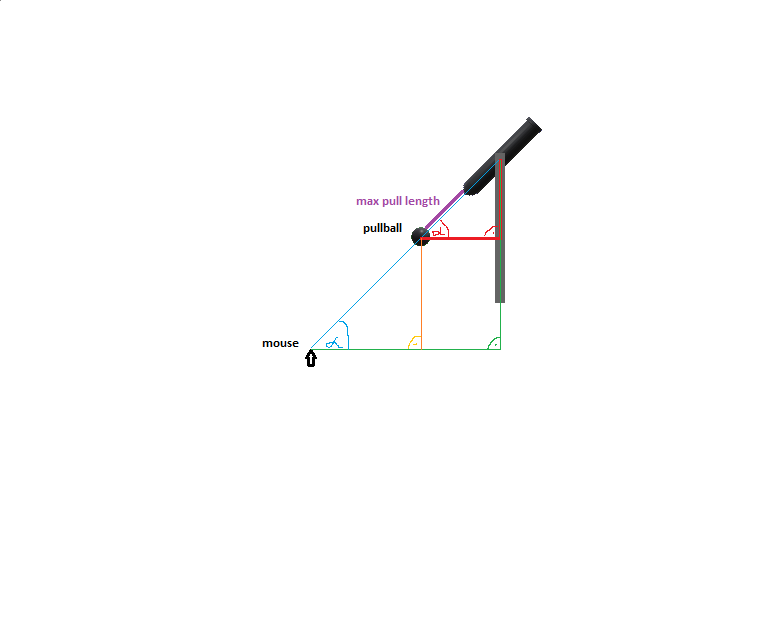
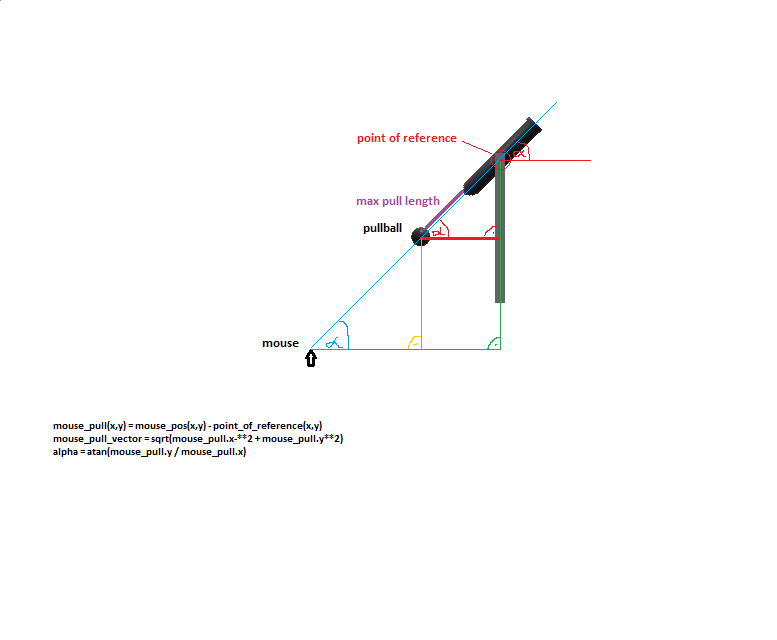
WIP: Updated the explanation image.

Changed region(s): [[0.0618, 0.6562, 0.4324, 0.7188], [0.4633, 0.1875, 0.5869, 0.2188], [0.6486, 0.2188, 0.6795, 0.25]]

diff --git a/pullball.py b/pullball.py
@@ -1,5 +1,7 @@
+
 import pygame as pg
 from typing import Final, TypeVar
+import math
 
 
 class PullBall:
@@ -21,7 +23,11 @@ class PullBall:
             self.pos.y = mouse_pos[1]
             self.pullball_rect.centerx = self.pos.x
             self.pullball_rect.centery = self.pos.y
+        
         x_dist = cannon_x - mouse_pos[0]
+        y_dist = cannon_y - mouse_pos[1]
+        if math.sqrt(x_dist**2 + y_dist**2) <= self.max_pull_length:
+            self.pos.x = mouse_pos[0]
 
     def draw(self, surf: pg.Surface) -> None:
         """draw the pullball on the screen"""
